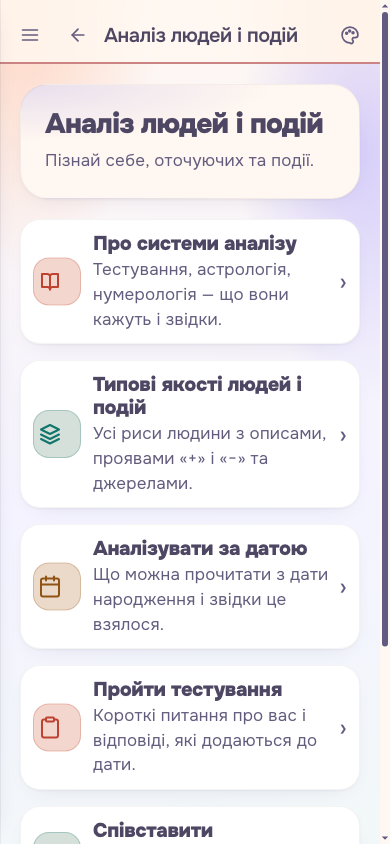
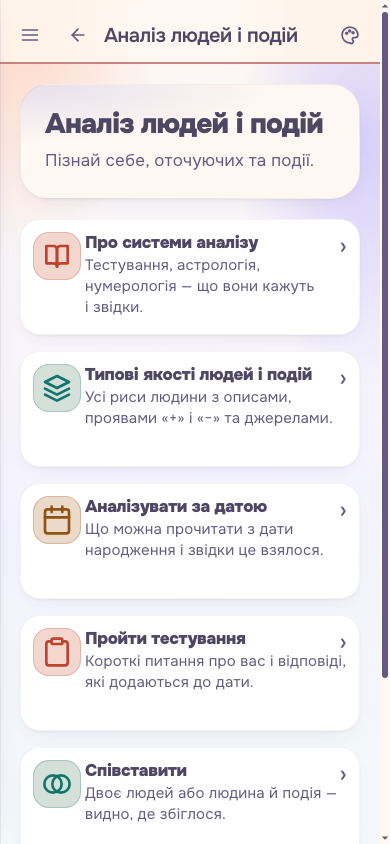
Головна аналізу: сітка карток і зрозумілі значки
На телефоні 20/17 розтягували пояснення й робили кожну картку власної висоти. Тепер назва, значок і шеврон стоять на верхній лінії, висота карток спільна. Плитка значка 48 px, гліф 32 px рівно по центру; compare — дві перехресні множини замість діагонального «розділення».

🤖 Generated with Codebuff

diff --git a/packages/shared/src/styles/analysis.css b/packages/shared/src/styles/analysis.css
@@ -1479,6 +1479,18 @@
   border-radius: var(--radius-lg);
 }
 
+/* Гліф усередині плитки: 32 у 48 лишає однакові 8 px з кожного боку.
+   `justify-content` потрібен саме обгортці `Icon`: без нього 24-піксельний
+   SVG тулився до лівого краю, і знак виглядав зсунутим. */
+.an-hub[data-variant="2"] .an-entry__icon > span {
+  justify-content: center;
+}
+
+.an-hub[data-variant="2"] .an-entry__icon svg {
+  width: 32px;
+  height: 32px;
+}
+
 .an-hub[data-variant="2"] .an-entry__body {
   gap: 2px;
 }
@@ -1501,6 +1513,40 @@
   font-size: var(--text-xl);
   line-height: 1;
   transform: translateY(-50%);
+}
+
+/*
+ * На телефоні рядок стає щільнішим, але не втрачає сітку: назва, значок і
+ * шеврон стоять на одній верхній лінії, пояснення має однакову ширину, а
+ * висота картки спільна. Донедавна 20/17 розтягували пояснення на три-чотири
+ * рядки, і кожна картка мала власну висоту — звідси «плаваючі» значки й шеврони.
+ */
+@media (width <= 559px) {
+  .an-hub[data-variant="2"] .an-entry {
+    grid-template-columns: 48px minmax(0, 1fr);
+    align-items: start;
+    gap: var(--sp-1);
+    min-height: 116px;
+    padding: var(--sp-3);
+  }
+
+  .an-hub[data-variant="2"] .an-entry__title {
+    font-size: var(--text-md);
+    line-height: 1.2;
+    text-wrap: balance;
+  }
+
+  .an-hub[data-variant="2"] .an-entry__lead {
+    font-size: var(--text-base);
+    line-height: 1.4;
+    text-wrap: pretty;
+  }
+
+  .an-hub[data-variant="2"] .an-entry__chevron {
+    top: var(--sp-3);
+    right: var(--sp-3);
+    transform: none;
+  }
 }
 
 .an-hub[data-variant="3"] .an-entry {

diff --git a/packages/shared/src/components/icons.tsx b/packages/shared/src/components/icons.tsx
@@ -116,7 +116,9 @@ export const icons: Record<IconName, ReactElement> = {
     l(12, 18, 12, 18.01),
   ]),
 
-  compare: icon([p("M16 3h5v5"), p("M8 3H3v5"), p("M12 22V8"), p("M21 3l-9 9"), p("M3 3l9 9")]),
+  // Спільне — дві перехресні множини: видно саме збіг, а не «розділення»
+  // діагоналями. Той самий знак працює і в профілі, і в рядку «Співставити».
+  compare: icon([c(9, 12, 6.5), c(15, 12, 6.5)]),
 
   info: icon([c(12, 12, 10), l(12, 16, 12, 12), l(12, 8, 12.01, 8)]),
 
